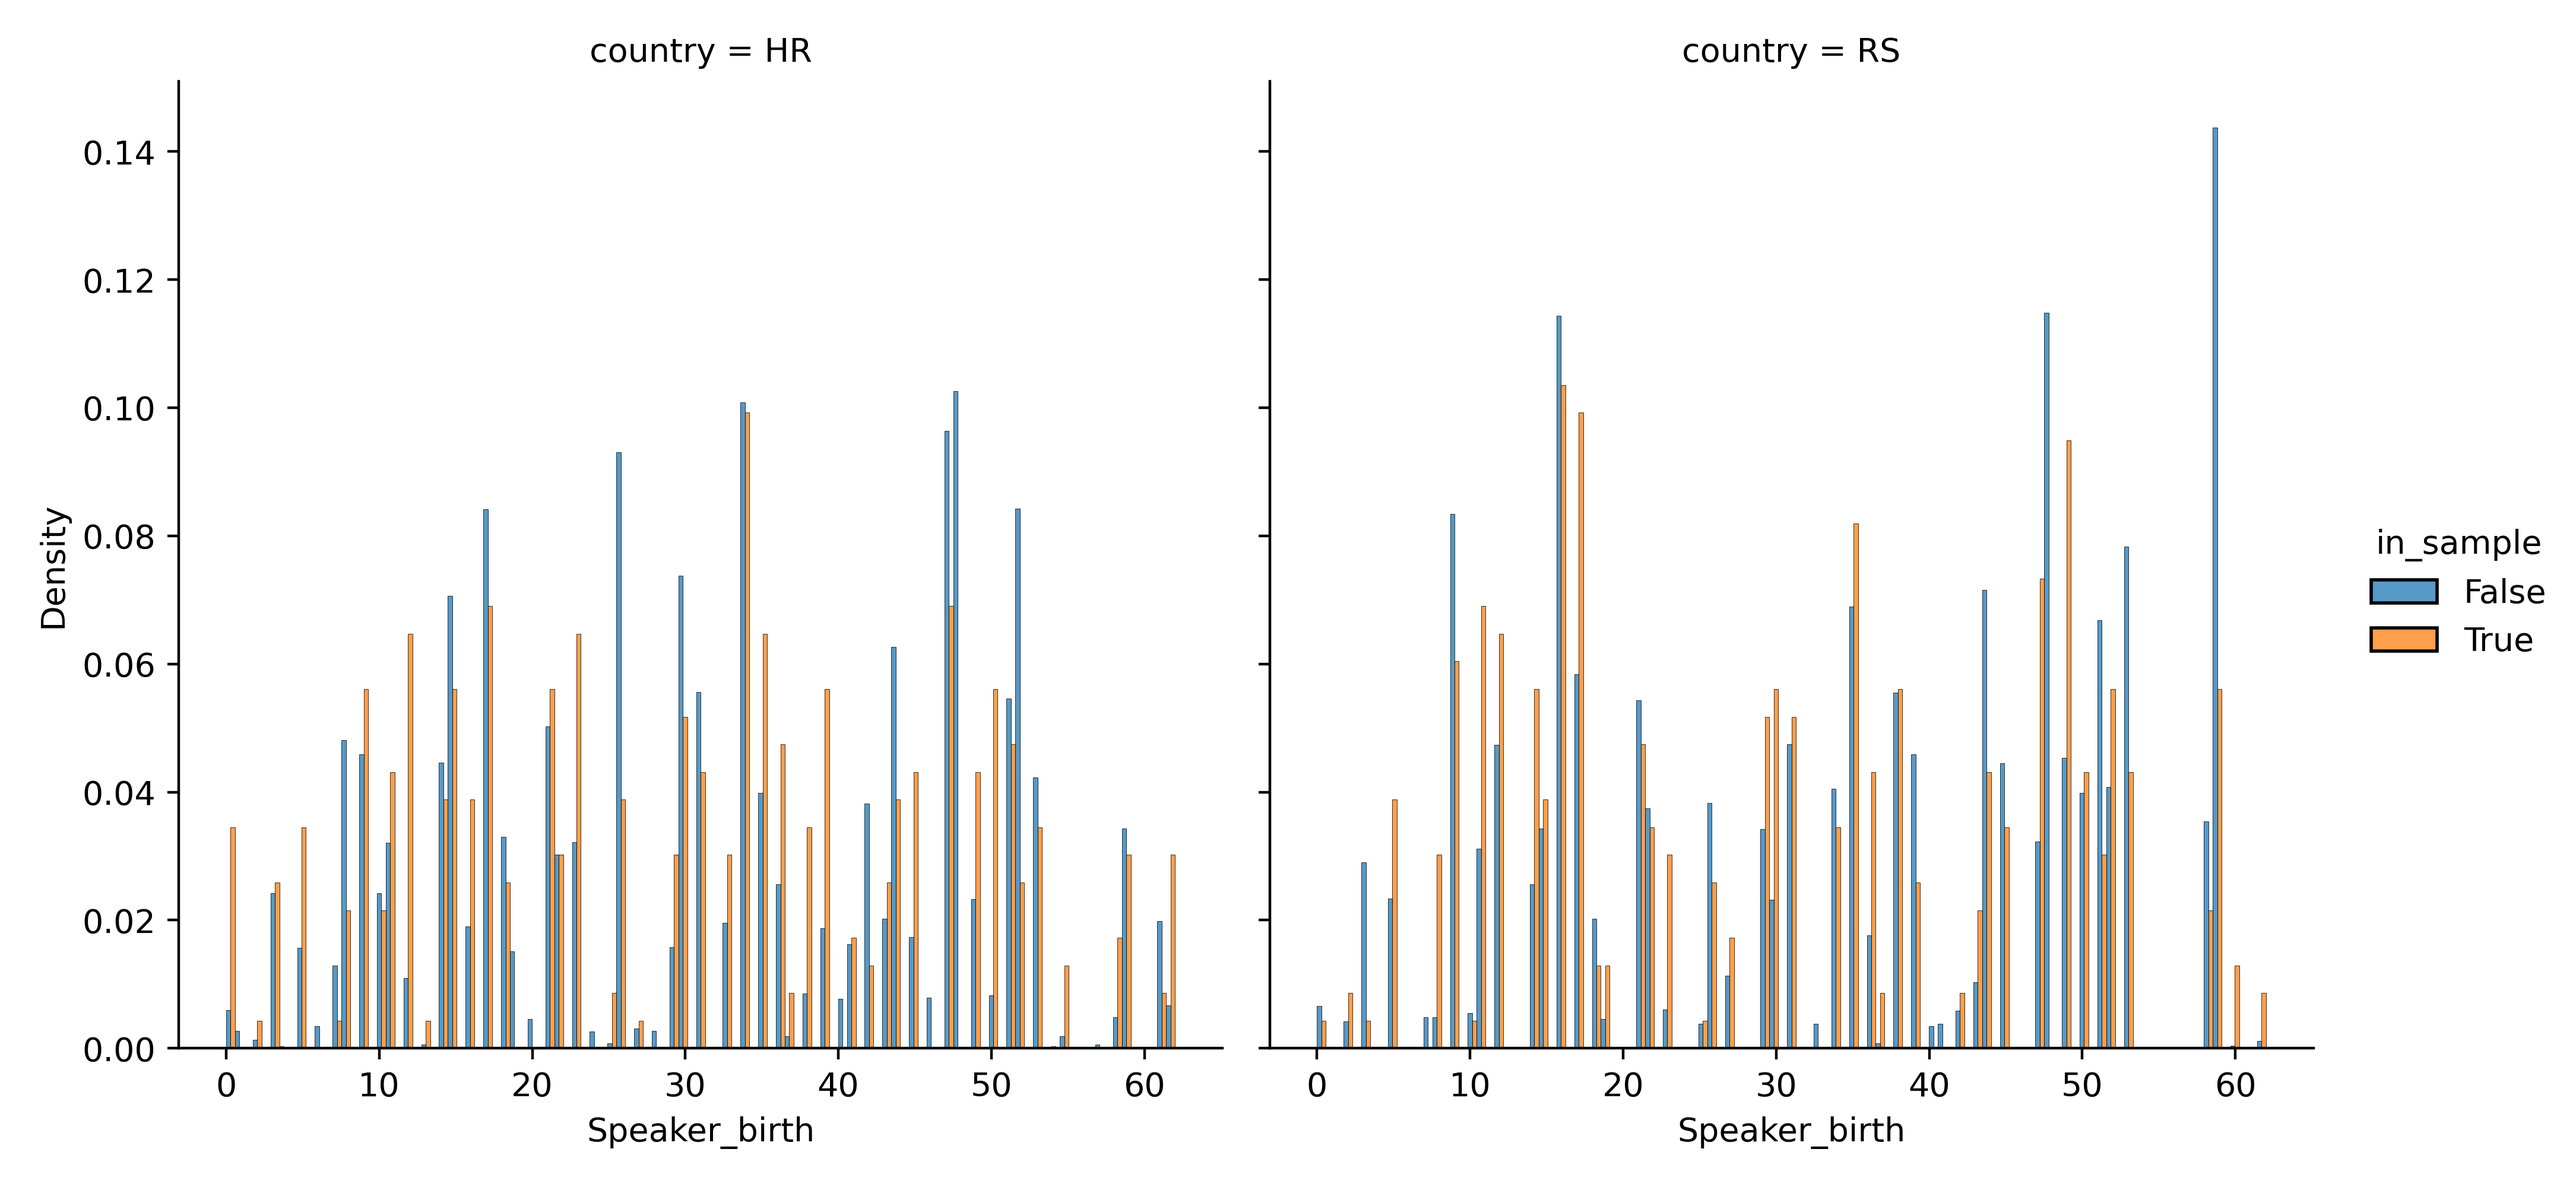
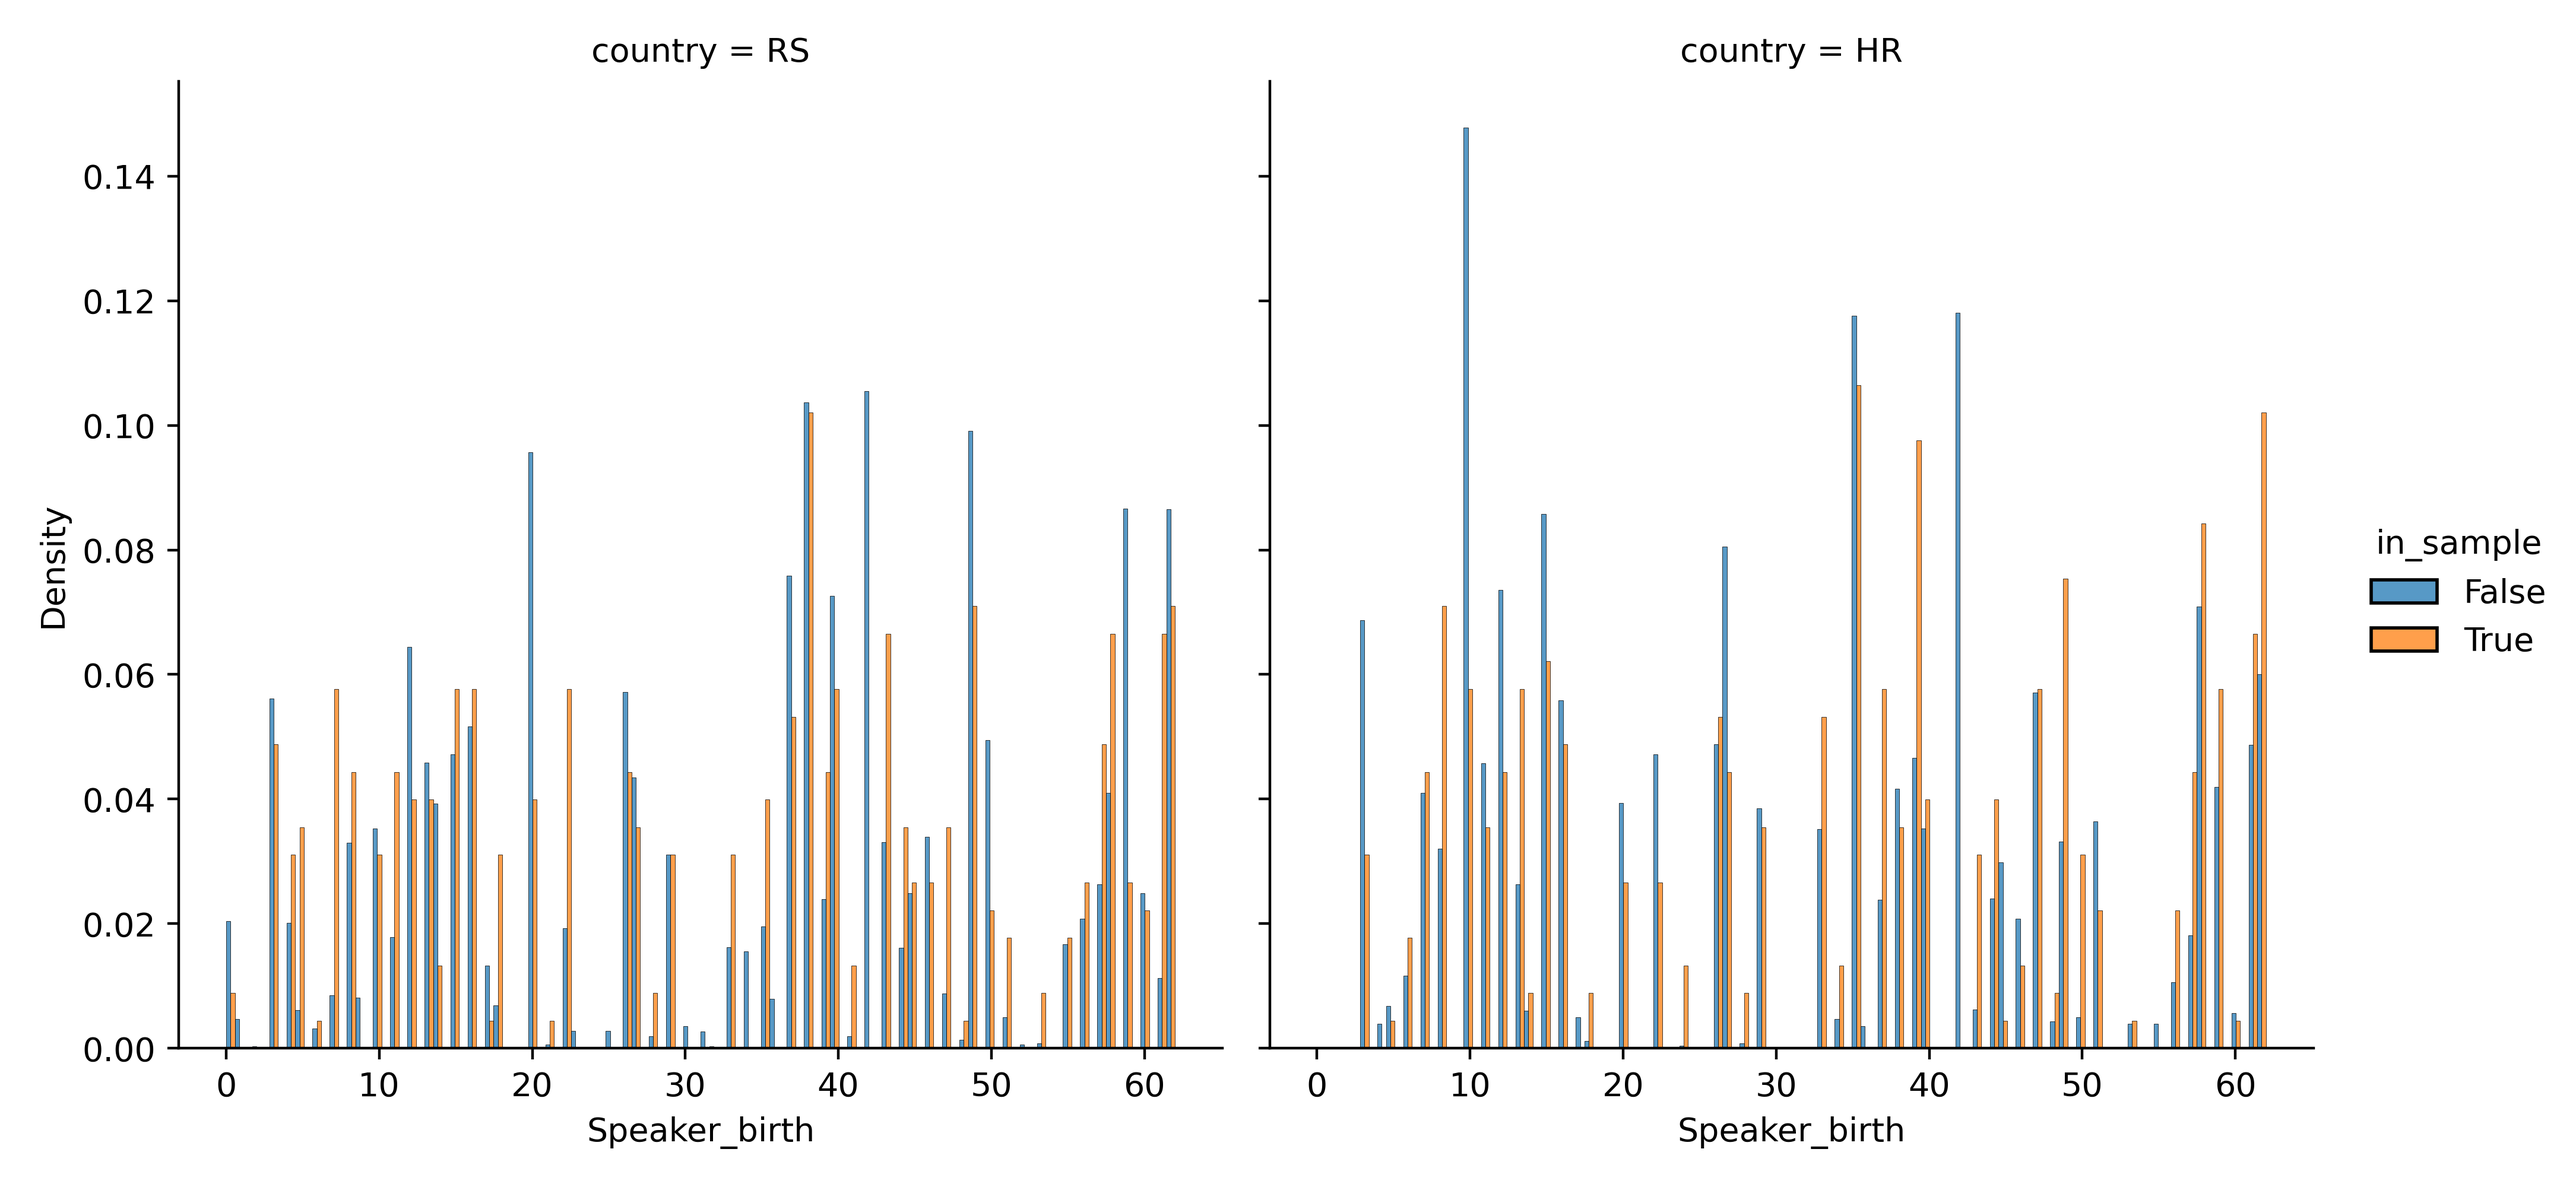
Spruced up scripts, used for producing the splits

diff --git a/2_prepare_splits.py b/2_prepare_splits.py
@@ -14,13 +14,14 @@ dfcz = (
         .map_elements(lambda s: f"data/ParlaSpeech-CZ/{s}", return_dtype=pl.String)
         .alias("audio")
     )
-    .filter(
-        pl.col("audio").map_elements(
-            lambda s: Path(s).exists(), return_dtype=pl.Boolean
-        )
+    .with_columns(
+        pl.col("audio")
+        .map_elements(lambda s: Path(s).exists(), return_dtype=pl.Boolean)
+        .alias("audio_exists")
     )
 )
-
+print("CZ:", dfcz.group_by("audio_exists").agg(pl.col("audio").count()))
+dfcz = dfcz.filter(pl.col("audio_exists") == True)
 print("CZ shape:", dfcz.shape)
 dfpl = (
     pl.read_ndjson("data/ParlaSpeech-PL/ParlaSpeech-PL.v1.0.jsonl")
@@ -34,12 +35,14 @@ dfpl = (
         .map_elements(lambda s: f"data/ParlaSpeech-PL/{s}", return_dtype=pl.String)
         .alias("audio")
     )
-    .filter(
-        pl.col("audio").map_elements(
-            lambda s: Path(s).exists(), return_dtype=pl.Boolean
-        )
+    .with_columns(
+        pl.col("audio")
+        .map_elements(lambda s: Path(s).exists(), return_dtype=pl.Boolean)
+        .alias("audio_exists")
     )
 )
+print("pl:", dfpl.group_by("audio_exists").agg(pl.col("audio").count()))
+dfpl = dfpl.filter(pl.col("audio_exists") == True)
 print("pl shape:", dfpl.shape)
 for df, name in ((dfpl, "pl"), (dfcz, "cz")):
     r = []

diff --git a/1_inspect_previous_splits.py b/1_inspect_previous_splits.py
@@ -13,14 +13,14 @@ ids = df["name"].to_list()
 rs = (
     pl.read_ndjson(rs_metadata_path)
     .with_columns(
-        pl.col("id").is_in(ids).alias("in_sample"), pl.lit("HR").alias("country")
+        pl.col("id").is_in(ids).alias("in_sample"), pl.lit("RS").alias("country")
     )
     .unnest("speaker_info")
 ).with_row_index()
 hr = (
     pl.read_ndjson(hr_metadata_path)
     .with_columns(
-        pl.col("id").is_in(ids).alias("in_sample"), pl.lit("RS").alias("country")
+        pl.col("id").is_in(ids).alias("in_sample"), pl.lit("HR").alias("country")
     )
     .unnest("speaker_info")
 ).with_row_index()
